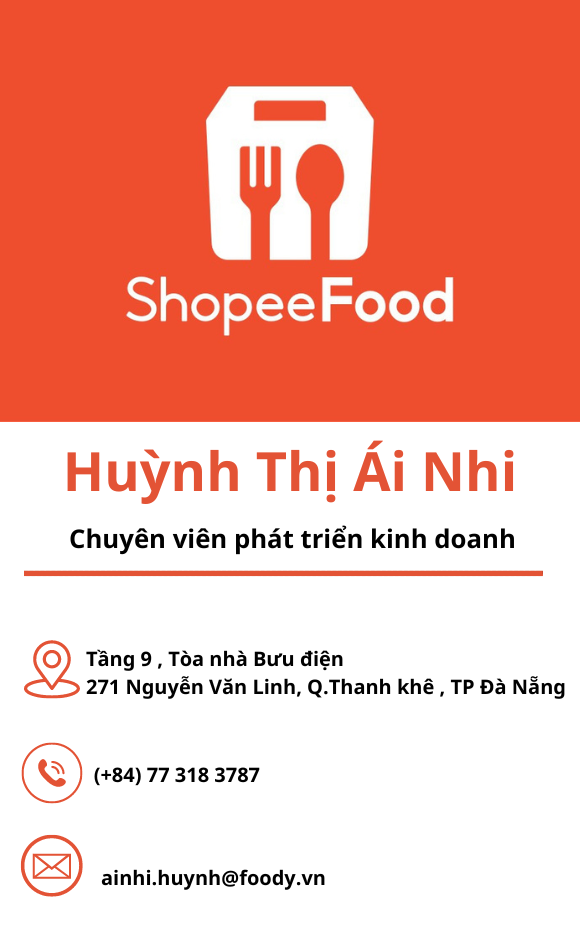
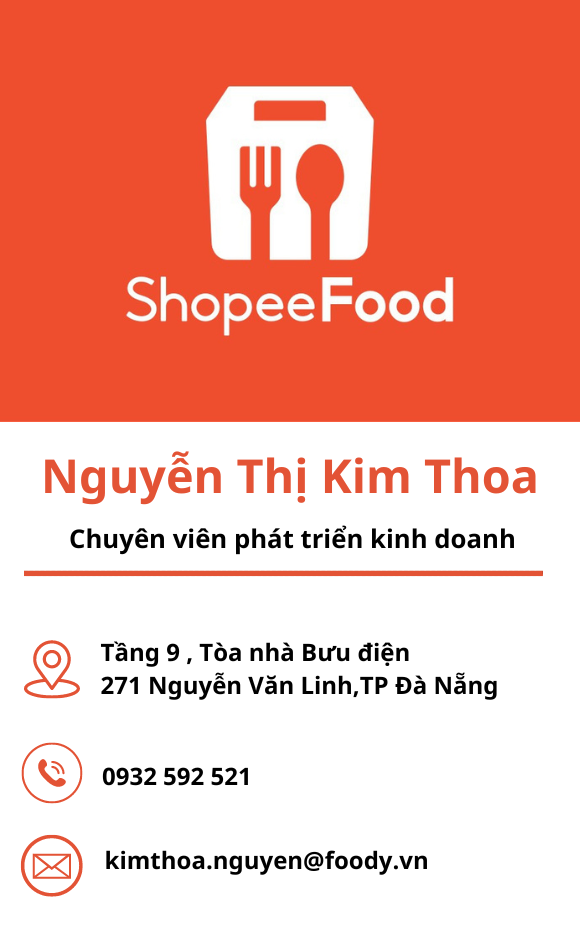
update kim thao

diff --git a/index.html b/index.html
@@ -79,7 +79,7 @@
            Đăng ký dễ dàng và nhanh chóng, 
            không tốn kém và đem lại lợi ích lớn cho doanh nghiệp của bạn. 
            Khám phá cơ hội kinh doanh mới với ShopeeFood tại Đà Nẵng ngay!" />
-    <meta name="format-detection" content="telephone=0773183787" />
+    <meta name="format-detection" content="telephone=0932592521" />
 
   <meta
     content="Đăng ký gian hàng trên ShopeeFood tại Đà Nẵng ngay hôm nay để
@@ -203,7 +203,7 @@
             kinh doanh
           </p>
           <div class="d-flex" data-aos="fade-up" data-aos-delay="200">
-            <a href="https://www.facebook.com/ainhi.huynhthi" class="btn-book-a-table">Liên lạc Ngay</a>
+            <a href="https://www.facebook.com/pe.coi.370" class="btn-book-a-table">Liên lạc Ngay</a>
             <a href="#" class="glightbox btn-watch-video d-flex align-items-center">
               <i class="bi bi-play-circle"></i><span>
                 Xem video
@@ -221,17 +221,17 @@
   </section><!-- End Hero Section -->
 
   <!-- element -->
-  <div id="floating-icon" onclick="dialPhoneNumber('0773183787')">
+  <div id="floating-icon" onclick="dialPhoneNumber('0932592521')">
     <img src="https://encrypted-tbn0.gstatic.com/images?q=tbn:ANd9GcSjMOj6CrABhCbOzmUas3xpTnGduZz3qsE4UCFtbanEVg&s"
       alt="TelPhone" style="border-radius: 50%; overflow: hidden;" />
   </div>
 
-  <div id="floating-icon-zalo" onclick="dialzalo('0773183787')">
+  <div id="floating-icon-zalo" onclick="dialzalo('0932592521')">
     <img src="https://encrypted-tbn0.gstatic.com/images?q=tbn:ANd9GcSltmj_FxbJo2Mjqb_F_BZC3efE5aeaCIxIJWmnZ58bmQ&s"
       alt="Zalo Logo" style="border-radius: 50%; overflow: hidden; width: 60px; height: 60px" />
   </div>
 
-  <a href="https://www.facebook.com/ainhi.huynhthi">
+  <a href="https://www.facebook.com/pe.coi.370">
     <img id="floating-icon-ms"
       src="https://banner2.cleanpng.com/20190416/yuc/kisspng-font-line-computer-icons-brand-facebook-call-to-action-react-responsive-acoustics-5cb65e18928950.8477248415554555126002.jpg"
       alt="Messenger" style="border-radius: 50%; overflow: hidden; width: 60px; height: 60px">
@@ -250,8 +250,10 @@
 
         <div class="row g-0">
 
-          <div class="col-lg-4 reservation-img" style="background-image: url(assets/img/dangkyShopeeFood_ainhi.png);"
-            data-aos="zoom-out" data-aos-delay="200"></div>
+          <div class="col-lg-4 reservation-img" style="background-image: url(assets/img/dangkyShopeeFood_ainhi.png);cursor: pointer;"
+          data-aos="zoom-out" data-aos-delay="200">
+          <a href="profile.html" class="link-overlay"></a>
+        </div>
 
           <div class="col-lg-8 d-flex align-items-center reservation-form-bg">
             <form method="post" role="form" class="php-email-form" data-aos="fade-up" data-aos-delay="100">
@@ -321,7 +323,7 @@
 
                   <div class="sent-message">
                     Bạn đã đăng ký thành công. Chúng tôi sẽ liên lạc sớm nhật có thể. Hoặc bạn
-                    có thế gọi 0773183787 để gặp tư vấn
+                    có thế gọi 0932592521 để gặp tư vấn
                   </div>
                 </div>
                 <div class="text-center"><button type="submit">Đăng Ký</button></div><br>
@@ -828,7 +830,7 @@
               <i class="icon bi bi-facebook flex-shrink-0"></i>
               <div>
                 <h3>Facebook</h3>
-                <p>https://www.facebook.com/ainhi.huynhthi</p>
+                <p>https://www.facebook.com/pe.coi.370</p>
               </div>
             </div>
           </div><!-- End Info Item -->
@@ -838,7 +840,7 @@
               <i class="icon bi bi-send flex-shrink-0"></i>
               <div>
                 <h3>Email</h3>
-                <p>ainhi.huynh@foody.vn</p>
+                <p>kimthoa.nguyen@foody.vn</p>
               </div>
             </div>
           </div><!-- End Info Item -->
@@ -848,7 +850,7 @@
               <i class="icon bi bi-telephone flex-shrink-0"></i>
               <div>
                 <h3>Số Điện Thoại</h3>
-                <p>077 318 3787</p>
+                <p>0932592521</p>
               </div>
             </div>
           </div><!-- End Info Item -->
@@ -894,8 +896,8 @@
           <div>
             <h4>Liên Lạc </h4>
             <p>
-              <strong>Điện thoại:</strong> 077 318 3787<br>
-              <strong>Email:</strong> ainhi.huynh@foody.vn<br>
+              <strong>Điện thoại:</strong> 0932 592 521<br>
+              <strong>Email:</strong> kimthoa.nguyen@foody.vn<br>
             </p>
           </div>
         </div>

diff --git a/profile.html b/profile.html
@@ -1,0 +1,45 @@
+<!DOCTYPE html>
+<html lang="en">
+<head>
+    <meta charset="UTF-8">
+    <meta name="viewport" content="width=device-width, initial-scale=1.0">
+    <title>Profile Page</title>
+    <link href="https://stackpath.bootstrapcdn.com/bootstrap/4.5.2/css/bootstrap.min.css" rel="stylesheet">
+    <style>
+                body {
+            background-color: #EE4E2E;
+            color: #ffffff;
+        }
+        .profile-container {
+            margin-top: 50px;
+        }
+        .profile-img {
+            width: 350px;
+            height: 350px;
+          
+        }
+    </style>
+</head>
+<body>
+    <div class="container profile-container">
+        <div class="row">
+            <div class="col-md-4 text-center">
+                <img src="assets/img/profile_img.jpg" alt="Profile Image" class="profile-img">
+            </div>
+            <div class="col-md-8" style="margin-top: 40px;">
+                <h2>Tên: Nguyễn Thị Kim Thoa</h2>
+           <br>
+                <p><strong>Chức danh:</strong> Chuyên Viên Phát Triển Kinh Doanh</p>
+                <p><strong>Số điện thoại:</strong> 0932592521</p>
+                <p><strong>Email:</strong> kimthoa.nguyen@foody.vn</p>
+                <p><strong>Facebook:</strong> <a href="https://www.facebook.com/pe.coi.370" target="_blank" style="color: #ffffff;">facebook.com/nguyenkimthoa</a></p>
+                <p><strong>Địa chỉ:</strong> 271 Nguyễn Văn Linh, Thanh Khê,Đà Nẵng </p>
+            </div>
+        </div>
+    </div>
+    
+    <script src="https://code.jquery.com/jquery-3.5.1.slim.min.js"></script>
+    <script src="https://cdn.jsdelivr.net/npm/@popperjs/core@2.9.2/dist/umd/popper.min.js"></script>
+    <script src="https://stackpath.bootstrapcdn.com/bootstrap/4.5.2/js/bootstrap.min.js"></script>
+</body>
+</html>

diff --git a/assets/css/main.css b/assets/css/main.css
@@ -43,6 +43,21 @@ body {
   color: var(--color-default);
 }
 
+.reservation-img {
+  position: relative;
+}
+
+.link-overlay {
+  position: absolute;
+  top: 0;
+  left: 0;
+  width: 100%;
+  height: 100%;
+  z-index: 10;
+  text-indent: -9999px; /* Để ẩn văn bản trong liên kết nếu có */
+}
+
+
 a {
   color: var(--color-primary);
   text-decoration: none;
